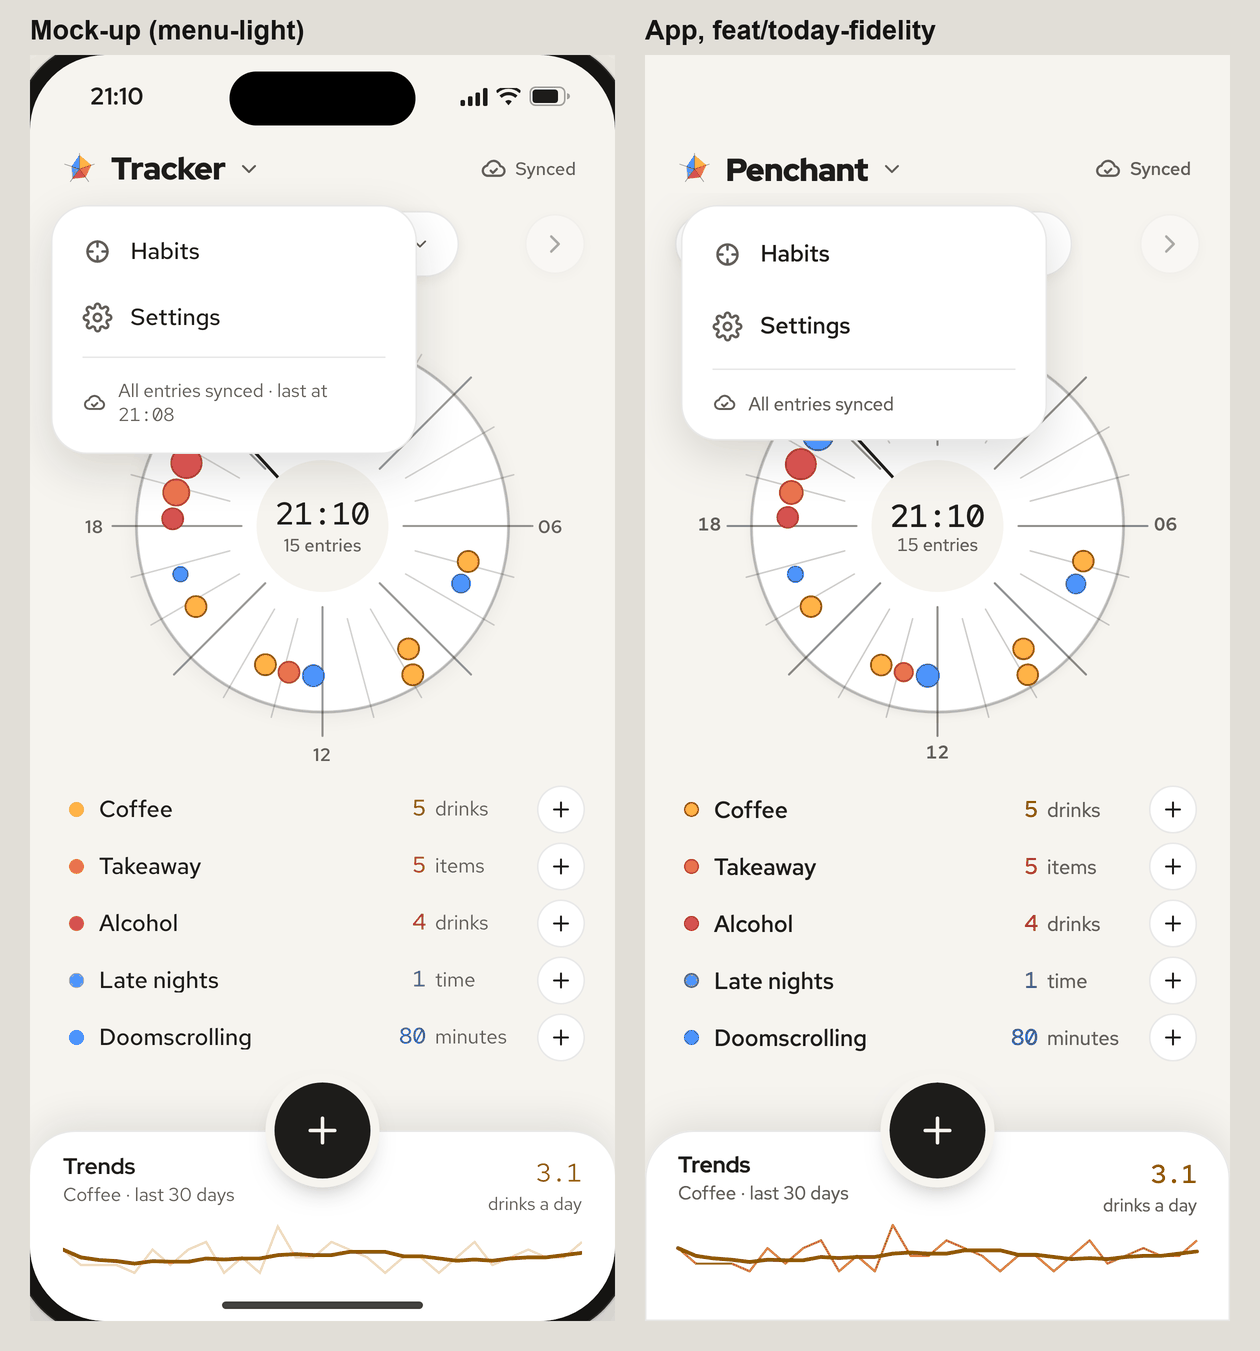
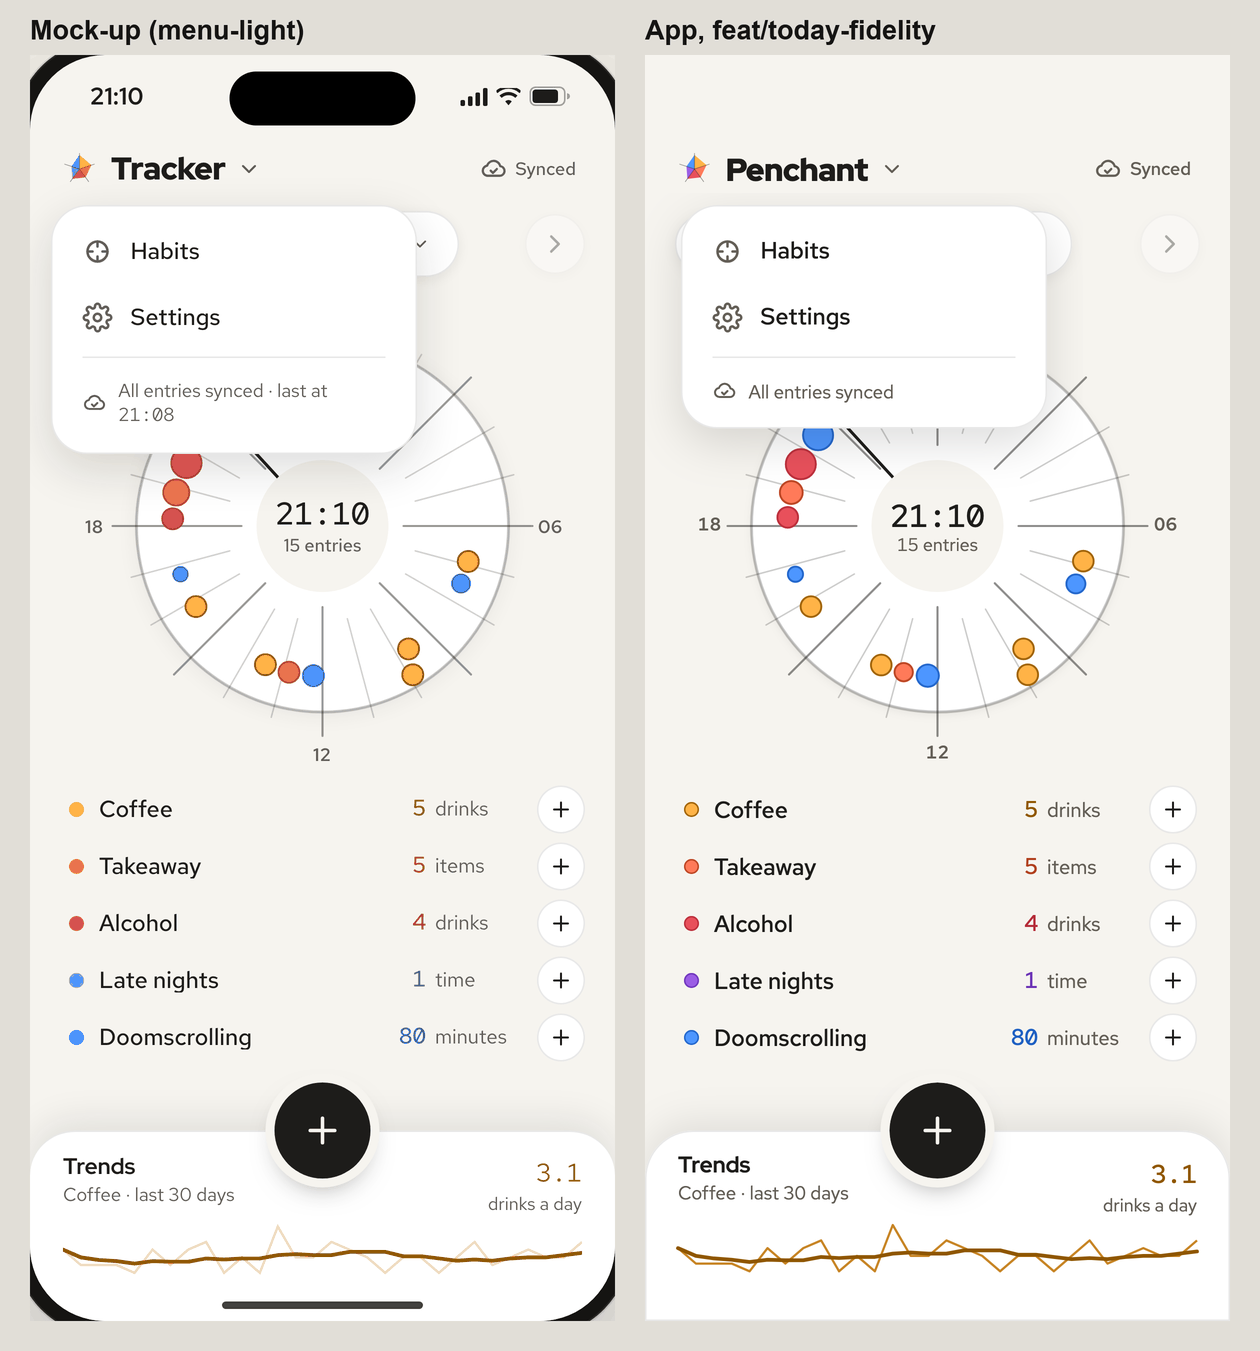
Review: menu rows at the mock-up's 44 pt, drop the drawer theme, state the + target honestly
MenuItemButton's padded tap target grew each row to 48; shrink-wrapped, the
44 pt minimum still holds. The + overhang is drawn but not hittable, since hit
testing stops at the 38 pt row. menu-light.png re-rendered on the app side.

diff --git a/lib/widgets/tally_row.dart b/lib/widgets/tally_row.dart
@@ -205,7 +205,7 @@ class _TallyRowState extends State<TallyRow>
 
 // The row is one screen-reader stop, its name and total with the + as its
 // tap. The row is 38 pt, so the stop's frame is stretched to 44 pt about its
-// middle, overlapping its neighbours' by 3 pt, as the + itself does.
+// middle, overlapping its neighbours' by 3 pt, as the +'s ink does.
 class _TallSemantics extends SingleChildRenderObjectWidget {
   const _TallSemantics({required Widget super.child});
 
@@ -239,9 +239,9 @@ class _PlusButton extends StatelessWidget {
     final ColorScheme scheme = Theme.of(context).colorScheme;
     final DialColors colors = DialColors.of(context);
 
-    // 32 pt drawn in a 38 pt row, as the mock-up has it. The target is 44 pt
-    // square and overhangs the row by 3 pt above and below; where it overlaps
-    // a neighbour's, the row under the finger takes the tap.
+    // 32 pt drawn in a 38 pt row, as the mock-up has it. The ink is 44 pt
+    // square, but hit testing stops at the row's bounds, so a touch lands on
+    // a 44 x 38 target; the rows' targets meet with no gap between them.
     return SizedBox(
       width: DialSize.minTapTarget,
       height: DialSize.tallyRow,

diff --git a/test/today_layout_test.dart b/test/today_layout_test.dart
@@ -89,4 +89,16 @@ void main() {
       expect(tester.getRect(find.byWidget(e.widget)).bottom, lessThan(logTop));
     }
   });
+
+  testWidgets("the menu's rows are the mock-up's 44 pt", (
+    WidgetTester tester,
+  ) async {
+    await pump(tester);
+    await tester.tap(find.byKey(Homepage.menuKey));
+    await tester.pumpAndSettle();
+    for (final Element e in find.byType(MenuItemButton).evaluate()) {
+      expect(tester.getRect(find.byWidget(e.widget)).height, 44);
+    }
+    expect(find.byType(MenuItemButton), findsNWidgets(2));
+  });
 }

diff --git a/lib/homepage.dart b/lib/homepage.dart
@@ -89,6 +89,8 @@ class _AppMenu extends StatelessWidget {
     final ButtonStyle itemStyle = MenuItemButton.styleFrom(
       padding: const EdgeInsets.all(12),
       minimumSize: const Size(228, DialSize.minTapTarget),
+      // Padded, Material grows each row to 48; the mock-up's rows are 44.
+      tapTargetSize: MaterialTapTargetSize.shrinkWrap,
       shape: RoundedRectangleBorder(borderRadius: BorderRadius.circular(16)),
       textStyle: DialTypeScale.bodyL.copyWith(fontSize: 15.5, height: 1.2),
       foregroundColor: scheme.onSurface,

diff --git a/lib/design/app_theme.dart b/lib/design/app_theme.dart
@@ -387,12 +387,6 @@ ThemeData appTheme(Brightness brightness) {
         ),
       ),
     ),
-    drawerTheme: DrawerThemeData(
-      backgroundColor: p.bg,
-      surfaceTintColor: Colors.transparent,
-      scrimColor: p.scrim,
-      elevation: 0,
-    ),
     cardTheme: CardThemeData(
       color: p.surface,
       surfaceTintColor: Colors.transparent,

diff --git a/HANDOVER.md b/HANDOVER.md
@@ -69,7 +69,7 @@ scratchpad is shared, and a generic `pr-body.md` once put one PR's description o
      hour's beads into one arc above about 48 entries, and docking the Log button on the Trends sheet (1c). Bead
      size is against the habit's median entry on the shown day, so it costs no extra read; the "your usual" ghost
      beads and a cross-day typical would cost a 7-day query. `r5-*` (the radar's key) are moot once this merges.
-     Fidelity pass in review in #94 (`feat/today-fidelity`, stacked on #89), after Jack found Today unlike the mock-up: the
+     Fidelity pass in review in #94 (`feat/today-fidelity`), after Jack found Today unlike the mock-up: the
      Penchant wordmark menu (Habits, Settings, sync footer) replaces the drawer, the Synced pill is built on
      `waitForPendingWrites` (`syncStatusProvider`), the mock-up's spacing fits five tallies above the Log button on a
      390 x 844 phone, light shadows, stroke icons, dimmed zero pips. Side by side in
